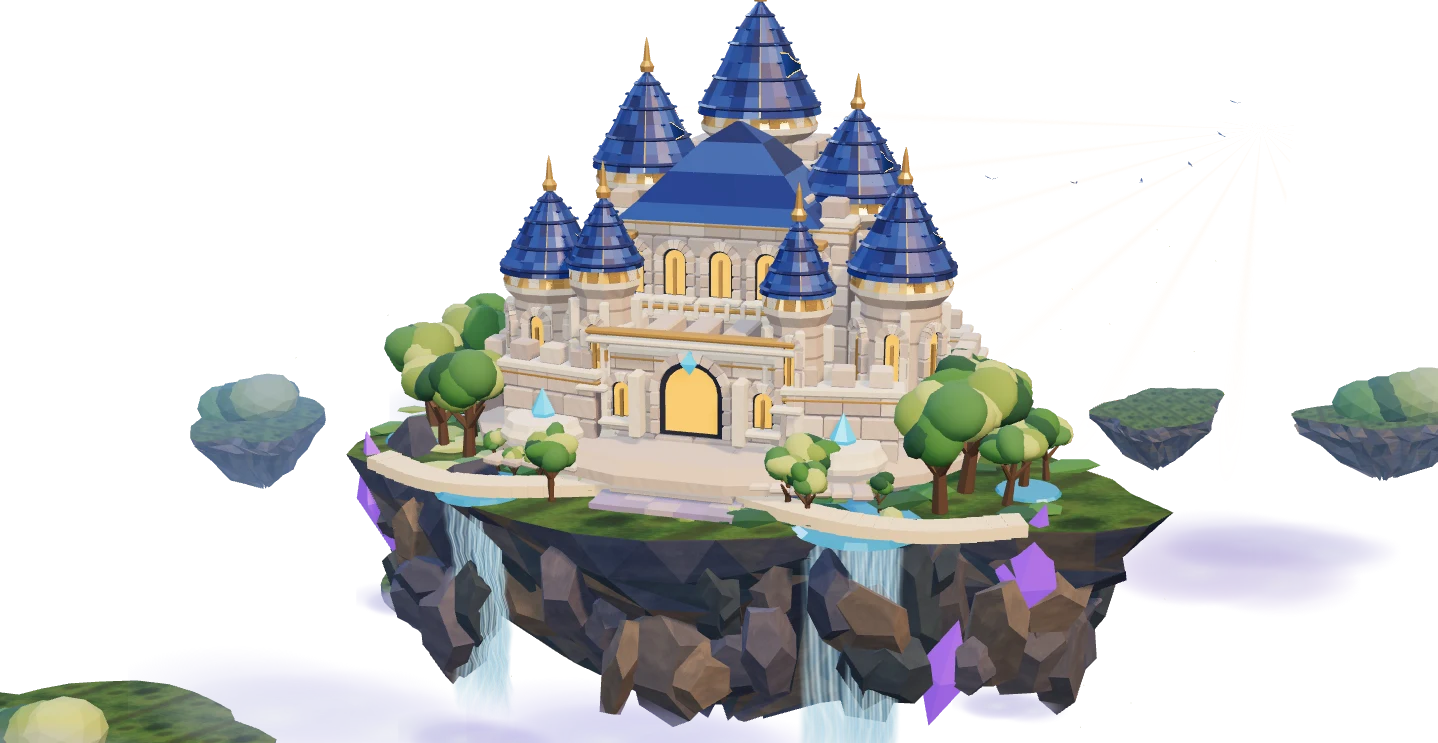
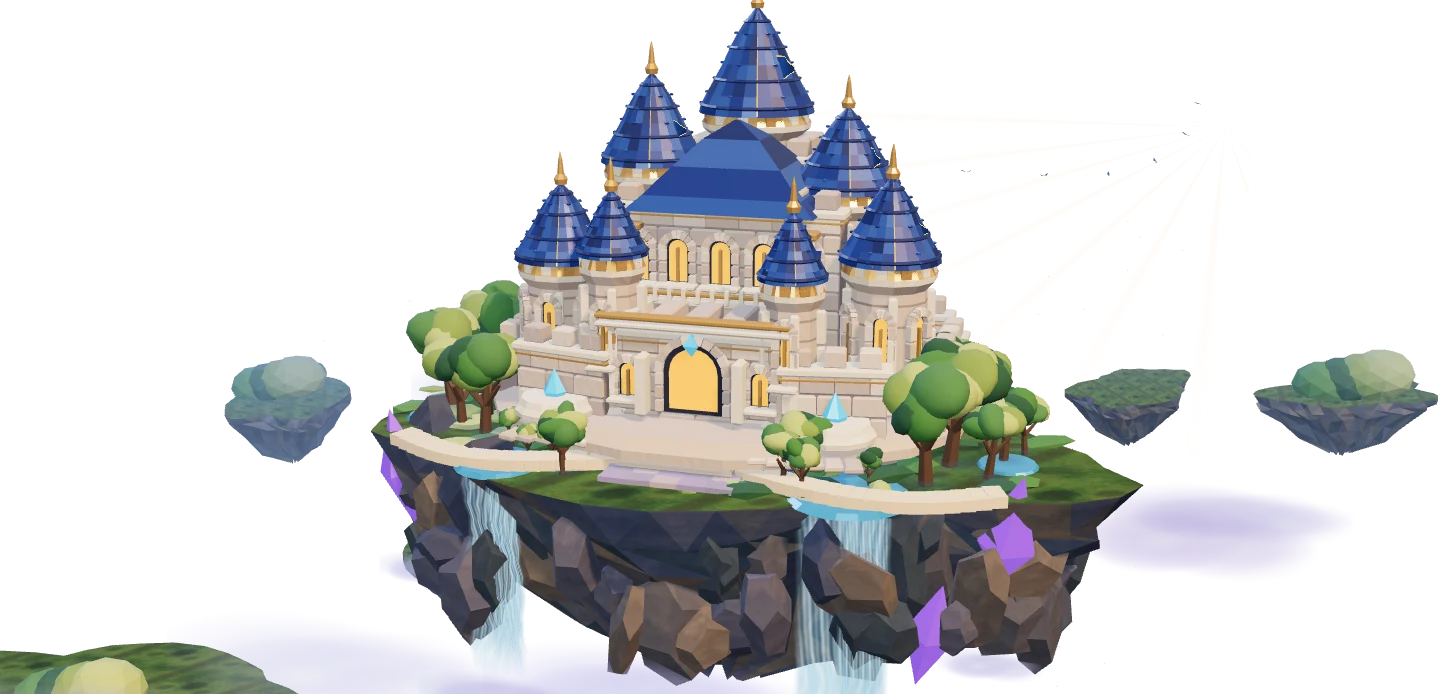
Polish perspective, cloud volumes, narrow screens and game feedback

Changed region(s): [[0.1224, 0.0, 1.0, 1.0], [0.0, 0.9078, 0.2142, 1.0], [0.8567, 0.696, 0.9485, 0.7565]]

diff --git a/src/lib/royale/three/kingdom-scene.ts b/src/lib/royale/three/kingdom-scene.ts
@@ -1,6 +1,7 @@
 import * as T from 'three';
 import { disposeKingdomScene, loadKingdomAsset } from './kingdom-resources';
 import type { GraphicsQuality } from '../quality';
+import { makeCloudVolume } from './kingdom-cloud';
 import { RoomEnvironment } from 'three/addons/environments/RoomEnvironment.js';
 
 const waterVertex = `
@@ -33,7 +34,7 @@ export function mountKingdomScene(canvas:HTMLCanvasElement,quality:GraphicsQuali
  const reduce=matchMedia('(prefers-reduced-motion: reduce)').matches;
  const heavy=quality==='high'||(quality==='auto'&&innerWidth>=950&&(navigator.hardwareConcurrency||8)>=8);
  const economy=quality==='low'||(quality==='auto'&&(matchMedia('(max-width: 700px)').matches||(navigator.hardwareConcurrency||8)<6));
- const renderer=new T.WebGLRenderer({canvas,alpha:true,antialias:!economy,powerPreference:economy?'low-power':'default'});
+ const renderer=new T.WebGLRenderer({canvas,alpha:true,antialias:!economy||(innerWidth<=430&&(navigator.hardwareConcurrency||4)>=4),powerPreference:economy?'low-power':'default'});
  renderer.toneMapping=T.ACESFilmicToneMapping;renderer.toneMappingExposure=1.06;
  const scene=new T.Scene(), island=new T.Group();
  renderer.shadowMap.enabled=!economy;renderer.shadowMap.type=T.PCFShadowMap;
@@ -210,6 +211,22 @@ export function mountKingdomScene(canvas:HTMLCanvasElement,quality:GraphicsQuali
   gradient.addColorStop(0,'rgba(255,242,255,.7)');gradient.addColorStop(.34,'rgba(215,197,255,.42)');gradient.addColorStop(1,'rgba(195,168,255,0)');
   ctx.fillStyle=gradient;ctx.fillRect(x-r,y-r,r*2,r*2);
  }
+ const shadowCanvas=document.createElement('canvas');shadowCanvas.width=shadowCanvas.height=64;
+ const ink=shadowCanvas.getContext('2d')!;
+ const groundGradient=ink.createRadialGradient(32,32,4,32,32,31);
+ groundGradient.addColorStop(0,'rgba(14,30,51,.64)');groundGradient.addColorStop(1,'rgba(14,30,51,0)');
+ ink.fillStyle=groundGradient;ink.fillRect(0,0,64,64);
+ const shade=new T.InstancedMesh(new T.PlaneGeometry(1,1),new T.MeshBasicMaterial({
+  map:new T.CanvasTexture(shadowCanvas),transparent:true,depthWrite:false,
+  opacity:economy?.66:.50,polygonOffset:true,polygonOffsetFactor:-1,
+ }),treeCount+1);
+ for(let i=0;i<treeCount;i++){
+  trunks.getMatrixAt(i,helper.matrix);helper.matrix.decompose(helper.position,helper.quaternion,helper.scale);
+  helper.position.setY(.253);helper.rotation.set(-Math.PI/2,0,0);
+  helper.scale.setScalar(Math.max(.55,helper.scale.y*.87));helper.updateMatrix();shade.setMatrixAt(i,helper.matrix);
+ }
+ helper.position.set(0,.253,-.15);helper.scale.set(6.38,4.8,1);helper.updateMatrix();shade.setMatrixAt(treeCount,helper.matrix);
+ island.add(shade);
  const clouds=Array.from({length:economy?6:10},(_,i)=>{
   const cloud=new T.Sprite(new T.SpriteMaterial({map:texture,color:i<3?0xc5dcfb:0xe0ccec,transparent:true,depthWrite:false,opacity:i<2?.39:.53}));
   const x=(i%5-2)*3.3+(rand()-.5)*1.9;
@@ -217,6 +234,13 @@ export function mountKingdomScene(canvas:HTMLCanvasElement,quality:GraphicsQuali
   cloud.scale.set(3.1+rand()*2.0,1.36+rand()*.61,1);scene.add(cloud);
   return {cloud,x,offset:rand()*6.28};
  });
+ const cloudVolumes=heavy?[[-5.8,-2.8,5.2],[5.6,-3.4,4.9],[-3.7,-2.3,-6.4]].map(([x,y,z])=>{
+  const cloud=makeCloudVolume();
+  cloud.position.set(x,y,z);
+  cloud.scale.set(2.85,.84,1.25);
+  scene.add(cloud);
+  return {cloud,x};
+ }):[];
  const rays=new T.Mesh(new T.PlaneGeometry(15,9),new T.ShaderMaterial({
   transparent:true,depthWrite:false,uniforms:{uTime:{value:0}},
   vertexShader:`varying vec2 vUv;void main(){vUv=uv;gl_Position=projectionMatrix*modelViewMatrix*vec4(position,1.);}`,
@@ -258,7 +282,7 @@ export function mountKingdomScene(canvas:HTMLCanvasElement,quality:GraphicsQuali
  birds.geometry.setAttribute('position',new T.Float32BufferAttribute([-.18,.045,0,0,0,.04,-.078,.012,-.02,0,0,.04,.18,.045,0,.078,.012,-.02],3));
  birds.frustumCulled=false;scene.add(birds);
  const abort=new AbortController();
- const aiming=new T.Vector3(),cameraPos=new T.Vector3();
+ const aiming=new T.Vector3(),cameraPos=new T.Vector3(),volumeEye=new T.Vector3();
  let frame=0,last=0,visible=true,ready=false,pointer=0,smoothed=0,painted=false,lastShadow=-1,firstFrame:number|undefined,frames=0;
  const resize=new ResizeObserver(()=>{
   const w=canvas.clientWidth,h=canvas.clientHeight;if(!w||!h)return;
@@ -271,10 +295,11 @@ export function mountKingdomScene(canvas:HTMLCanvasElement,quality:GraphicsQuali
  resize.observe(canvas);
  const observer=new IntersectionObserver(([entry])=>{visible=entry.isIntersecting;last=0;});
  observer.observe(canvas);
+ const stage=canvas.parentElement;
  const mouse=(event:PointerEvent)=>{
   if(!reduce&&event.pointerType==='mouse'){const rect=canvas.getBoundingClientRect();pointer=(event.clientX-rect.left)/rect.width-.5;}
  };
- canvas.addEventListener('pointermove',mouse);
+ stage?.addEventListener('pointermove',mouse);
  const contextLost=(event:Event)=>{event.preventDefault();onError();};
  canvas.addEventListener('webglcontextlost',contextLost);
  const render=(time:number)=>{
@@ -292,7 +317,7 @@ export function mountKingdomScene(canvas:HTMLCanvasElement,quality:GraphicsQuali
   cameraPos.set(distance*Math.sin(angle),7.1+.13*Math.sin(elapsed*.42),distance*Math.cos(angle));
   if(!painted)camera.position.copy(cameraPos);
   else camera.position.lerp(cameraPos,.085);
-  aiming.set(0,(camera.aspect<.84?1.21:1.46)+entering*.06,0);camera.lookAt(aiming);
+  aiming.set(0,(camera.aspect<.84?1.12:1.56)+entering*.06,0);camera.lookAt(aiming);
   for(let i=0;i<birds.count;i++){
    const t=elapsed*.34+i*.42;
    helper.position.set(8.9*Math.sin(t*.45)-2,3.0+i*.18+.41*Math.sin(t*2),-5.1-i*.91);
@@ -303,6 +328,10 @@ export function mountKingdomScene(canvas:HTMLCanvasElement,quality:GraphicsQuali
   flagMeshes.forEach(flag=>{flag.material.uniforms.uTime.value=elapsed;});
   sparkles.position.y=.14*Math.sin(elapsed*.3);
   clouds.forEach(({cloud,x,offset})=>{cloud.position.x=x+.95*Math.sin(elapsed*.115+offset);});
+  cloudVolumes.forEach(({cloud,x},index)=>{
+   cloud.position.x=x+Math.sin(elapsed*.105+index)*.5;
+   cloud.material.uniforms.uEye.value.copy(cloud.worldToLocal(volumeEye.copy(camera.position)));
+  });
   rays.material.uniforms.uTime.value=elapsed;
   sun.intensity=3.35+.077*Math.sin(elapsed*.36);
   const shadowStep=Math.floor(elapsed*9);
@@ -311,6 +340,7 @@ export function mountKingdomScene(canvas:HTMLCanvasElement,quality:GraphicsQuali
   frames++;
   if(frames%20===1){
    canvas.dataset.sceneFrames=String(frames);
+   canvas.dataset.sceneTime=String(time);
    canvas.dataset.sceneDraws=String(renderer.info.render.calls);
    canvas.dataset.sceneTriangles=String(renderer.info.render.triangles);
   }
@@ -325,7 +355,7 @@ export function mountKingdomScene(canvas:HTMLCanvasElement,quality:GraphicsQuali
  }).catch(()=>{if(!abort.signal.aborted)onError();});
  frame=requestAnimationFrame(render);
  return ()=>{abort.abort();cancelAnimationFrame(frame);resize.disconnect();observer.disconnect();
-  canvas.removeEventListener('pointermove',mouse);canvas.removeEventListener('webglcontextlost',contextLost);
+  stage?.removeEventListener('pointermove',mouse);canvas.removeEventListener('webglcontextlost',contextLost);
   disposeKingdomScene(scene);reflected?.dispose();spots.dispose();sparkles.material.dispose();clouds.forEach(({cloud})=>cloud.material.dispose());haze.material.dispose();texture.dispose();waterPaint.dispose();cloth.dispose();if(economy){rays.geometry.dispose();rays.material.dispose();}sun.shadow.dispose();renderer.renderLists.dispose();renderer.dispose();
  };
 }

diff --git a/src/components/royale/RoyaleApp.tsx b/src/components/royale/RoyaleApp.tsx
@@ -11,6 +11,7 @@ import { KingdomShell, KingdomHome, KingdomBattleSetup, type KingdomTab } from '
 import { KingdomDialog } from './KingdomDialog';
 import { KingdomProgress } from './KingdomProgress';
 import { RoyaleIcon } from './RoyaleIcon';
+import { RoyaleSound } from '@/lib/royale/sound';
 import s from './Royale.module.css';
 import k from './Kingdom.module.css';
 
@@ -22,6 +23,19 @@ function AccountRoyale({user,practice,onPractice,onCloud}:{user:User|null;practi
  const [catalog,setCatalog]=useState<Catalog|null>(null),[profile,setProfile]=useState<RoyaleProfile|null>(null),[settings,setSettings]=useState<RoyaleSettings>(defaultSettings),[error,setError]=useState(''),[busy,setBusy]=useState(false),[tab,setTab]=useState<KingdomTab>('home'),[settingsOpen,setSettingsOpen]=useState(false),[editDeck,setEditDeck]=useState(false),[difficulty,setDifficulty]=useState<Difficulty>('novice'),[arena,setArena]=useState('academy'),[run,setRun]=useState<{match:MatchDescriptor;draft:SavedRun|null}|null>(null),[saved,setSaved]=useState<SavedRun|null>(null),[active,setActive]=useState<MatchDescriptor|null>(null),[notice,setNotice]=useState(''),[deck,setDeck]=useState<CardId[]>([...starterDeck]);
  const {preferences,update:updatePreferences,ready:preferencesReady}=useRoyalePreferences();
  const [checkedAt,setCheckedAt]=useState(()=>Date.now());useEffect(()=>{const timer=setInterval(()=>setCheckedAt(Date.now()),30000);return()=>clearInterval(timer);},[]);
+ const menuAudio=useRef<RoyaleSound|null>(null);
+ if(!menuAudio.current)menuAudio.current=new RoyaleSound();
+ useEffect(()=>{
+  const audio=menuAudio.current!;
+  return()=>audio.dispose();
+ },[]);
+ useEffect(()=>{
+  const audio=menuAudio.current!;
+  audio.muted=!preferences.sound;
+  audio.volume=preferences.volume;
+  audio.music=preferences.music;
+  if(run||!preferences.sound||!preferences.music)audio.stopMusic();
+ },[preferences,run]);
  const operations=useRef(new Map<string,string>());
  const accountKey=practice?`practice:${user?.uid||'guest'}`:user!.uid,storageKey=`royale-run:${accountKey}`,profileKey=`royale-profile:${accountKey}`;
  useEffect(()=>{const controller=new AbortController();let alive=true;
@@ -41,7 +55,12 @@ function AccountRoyale({user,practice,onPractice,onCloud}:{user:User|null;practi
  if(run&&profile&&catalog)return<Suspense fallback={<main className={k.arenaLoading} role="status"><RoyaleIcon name="swords"/><span>Открываем 3D-арену…</span></main>}><RoyaleGame preferences={preferences} updatePreferences={updatePreferences} key={run.match.id} user={user} match={run.match} draft={run.draft} catalog={catalog.questions} settings={settings} profile={profile} storageKey={storageKey} profileKey={profileKey} onProfile={setProfile} onReturn={returnMenu} onRematch={()=>{setRun(null);void start();}} onDeck={()=>{returnMenu();setEditDeck(true);setTab('collection');}}/></Suspense>;
  const activeValid=active&&(!active.expiresAt||active.expiresAt>checkedAt)&&(!active.version||active.version===balance.version)&&(!active.bankVersion||active.bankVersion===catalog?.version);const canResume=saved&&((practice&&saved.match.practice&&saved.match.version===balance.version)||(!practice&&activeValid&&active?.id===saved.match.id));
 
- function navigate(next:KingdomTab){setEditDeck(false);setTab(next);}
+ function navigate(next:KingdomTab){
+  const audio=menuAudio.current!;
+  void audio.interfaceCue('menu');
+  if(preferences.sound&&preferences.music>0)audio.startMusic();
+  setEditDeck(false);setTab(next);
+ }
  function resume(){
   if(!saved)return;
   try{

diff --git a/src/lib/royale/sound.ts b/src/lib/royale/sound.ts
@@ -1,8 +1,35 @@
 export class RoyaleSound{
  private context:AudioContext|null=null;private timer:ReturnType<typeof setInterval>|null=null;private last=0;muted=true;volume=.25;music=0;
  unlock(){if(this.muted)return;try{this.context??=new AudioContext();void this.context.resume().catch(()=>undefined);}catch{/* The game works without Web Audio. */}}
- play(kind:'hit'|'spawn'|'collapse'|'fire'|'correct'|'wrong'|'win'|'loss'|'select'|'start'){
-  if(this.muted||!this.context||this.context.state!=='running')return;const now=this.context.currentTime;if(now-this.last<.035&&['hit','spawn'].includes(kind))return;this.last=now;const oscillator=this.context.createOscillator(),gain=this.context.createGain();const frequency={hit:170,spawn:390,collapse:85,fire:120,correct:660,wrong:150,win:780,loss:180,select:334,start:506}[kind];oscillator.type=['fire','collapse'].includes(kind)?'sawtooth':'sine';oscillator.frequency.setValueAtTime(frequency,now);oscillator.frequency.exponentialRampToValueAtTime(kind==='correct'||kind==='win'||kind==='start'?frequency*1.5:frequency*.5,now+.14);gain.gain.setValueAtTime(this.volume*.17,now);gain.gain.exponentialRampToValueAtTime(.001,now+.19);oscillator.connect(gain);gain.connect(this.context.destination);oscillator.start(now);oscillator.stop(now+.2);
+ async interfaceCue(kind:'menu'|'select'){
+  if(this.muted)return;
+  this.unlock();
+  await this.context?.resume().catch(()=>undefined);
+  this.play(kind);
+ }
+ play(kind:'hit'|'spawn'|'collapse'|'fire'|'correct'|'wrong'|'win'|'loss'|'select'|'start'|'menu'){
+  const ctx=this.context;
+  if(this.muted||!ctx||ctx.state!=='running'||this.volume<=0)return;
+  const now=ctx.currentTime;
+  if(now-this.last<.035&&['hit','spawn'].includes(kind))return;
+  this.last=now;
+  const chords:Partial<Record<typeof kind,number[]>>={
+   correct:[587.33,739.99,880],win:[392,523.25,659.25,783.99],start:[261.63,392,523.25],menu:[369.99,554.37],
+  };
+  const frequencies=chords[kind]??[{hit:170,spawn:390,collapse:85,fire:120,wrong:150,loss:180,select:334}[kind as 'hit'|'spawn'|'collapse'|'fire'|'wrong'|'loss'|'select']];
+  frequencies.forEach((frequency,index)=>{
+   const start=now+index*.061;
+   const length=kind==='win'?.37:kind==='correct'?.24:.16;
+   const oscillator=ctx.createOscillator(),gain=ctx.createGain();
+   oscillator.type=kind==='collapse'||kind==='fire'?'triangle':'sine';
+   oscillator.frequency.setValueAtTime(frequency,start);
+   if(!chords[kind])oscillator.frequency.exponentialRampToValueAtTime(frequency*.64,start+length*.70);
+   gain.gain.setValueAtTime(.0001,start);
+   gain.gain.exponentialRampToValueAtTime(Math.max(.0002,this.volume*(index===0?.15:.105)),start+.012);
+   gain.gain.exponentialRampToValueAtTime(.0001,start+length);
+   oscillator.connect(gain);gain.connect(ctx.destination);
+   oscillator.start(start);oscillator.stop(start+length+.012);
+  });
  }
  startMusic(){if(this.timer||this.muted||this.music<=0)return;let note=0;const melody=[220,277.18,329.63,277.18,246.94,329.63,369.99,329.63];this.timer=setInterval(()=>{if(!this.context||this.muted||this.music<=0)return;const t=this.context.currentTime,o=this.context.createOscillator(),g=this.context.createGain();o.type='sine';o.frequency.value=melody[note++%melody.length];g.gain.setValueAtTime(this.volume*this.music*.06,t);g.gain.exponentialRampToValueAtTime(.001,t+.7);o.connect(g);g.connect(this.context.destination);o.start(t);o.stop(t+.75);},650);}
  stopMusic(){if(this.timer)clearInterval(this.timer);this.timer=null;}

diff --git a/src/lib/royale/three/renderer.ts b/src/lib/royale/three/renderer.ts
@@ -26,14 +26,14 @@ export function create3DView(canvas:HTMLCanvasElement,theme:string,onFailure:(me
  try{renderer=new T.WebGLRenderer({canvas,antialias:initialQuality!=='low',alpha:true,powerPreference:initialQuality==='low'?'low-power':'default'});}catch{throw Error('На этом устройстве недоступен WebGL 2. Попробуйте облегчённую 3D-графику.');}
  const startLow=initialQuality==='low';
  const scene=new T.Scene();
- scene.fog=new T.Fog(0x7e91ba,46,106);
+ scene.fog=new T.Fog(0x8399bb,43,108);
  renderer.outputColorSpace=T.SRGBColorSpace;renderer.toneMapping=T.ACESFilmicToneMapping;renderer.toneMappingExposure=1.04;
  renderer.shadowMap.type=T.PCFShadowMap;
  renderer.shadowMap.autoUpdate=false;
  renderer.info.autoReset=false;
  const camera=createBattleCamera(),world=createArena(theme),workshop=new ModelWorkshop();scene.add(world.root);
- scene.add(new T.HemisphereLight(0xb3c9ff,0x6b597b,1.33));
- const sun=new T.DirectionalLight(0xffd5a2,3.1);sun.position.set(-14,29,9);sun.shadow.camera.left=-25;sun.shadow.camera.right=25;sun.shadow.camera.top=28;sun.shadow.camera.bottom=-28;sun.shadow.camera.near=1;sun.shadow.camera.far=80;sun.shadow.bias=-.001;sun.shadow.normalBias=.045;sun.shadow.radius=2.7;scene.add(sun);scene.add(sun.target);
+ scene.add(new T.HemisphereLight(0xb7cbff,0x6b627a,1.39));
+ const sun=new T.DirectionalLight(0xffd9ae,3.04);sun.position.set(-14,29,9);sun.shadow.camera.left=-25;sun.shadow.camera.right=25;sun.shadow.camera.top=28;sun.shadow.camera.bottom=-28;sun.shadow.camera.near=1;sun.shadow.camera.far=80;sun.shadow.bias=-.001;sun.shadow.normalBias=.045;sun.shadow.radius=2.7;scene.add(sun);scene.add(sun.target);
  const motes=createSkyMotes(scene);
  let bloom:ReturnType<typeof createSkyBloom>|undefined;
  const geometry:T.BufferGeometry[]=[],materials:T.Material[]=[];

diff --git a/src/lib/royale/three/kingdom-cloud.ts b/src/lib/royale/three/kingdom-cloud.ts
@@ -1,0 +1,54 @@
+import * as T from 'three';
+
+const vertexShader = `
+ varying vec3 vPoint;
+ uniform vec3 uEye;
+ void main() {
+  vPoint=position;
+  gl_Position=projectionMatrix*modelViewMatrix*vec4(position,1.);
+ }
+`;
+
+const fragmentShader = `
+ varying vec3 vPoint;
+ uniform vec3 uEye;
+
+ float puff(vec3 p, vec3 center, vec3 stretch) {
+  return max(0.,1.-length((p-center)*stretch));
+ }
+ float density(vec3 p) {
+  return max(
+   puff(p,vec3(-.25,0.,0.),vec3(1.50,1.44,1.28)),
+   max(puff(p,vec3(.28,.12,.08),vec3(1.47,1.30,1.36)),
+       puff(p,vec3(.09,-.22,-.15),vec3(1.32,1.88,1.57)))
+  );
+ }
+ void main() {
+  vec3 direction=normalize(vPoint-uEye);
+  vec3 first=(-vec3(1.)-uEye)/direction;
+  vec3 last=(vec3(1.)-uEye)/direction;
+  vec3 ends=min(first,last);
+  float near=max(max(ends.x,ends.y),ends.z);
+  float stepLength=(distance(vPoint,uEye)-max(0.,near))/10.;
+  vec3 color=vec3(0.);
+  float alpha=0.;
+  for(int i=0;i<10;i++){
+   vec3 p=uEye+direction*(near+(float(i)+.55)*stepLength);
+   float d=density(p);
+   float ripple=.89+.11*sin(p.x*28.+sin(p.z*17.))*sin(p.y*28.+p.z*12.);
+   float a=(1.-alpha)*d*ripple*stepLength*.54;
+   vec3 ink=mix(vec3(.24,.36,.68),vec3(.98,.80,.79),clamp(.46+p.y*.67+p.x*.16,0.,1.));
+   color+=ink*a;
+   alpha+=a;
+  }
+  gl_FragColor=vec4(color/max(alpha,.001),alpha);
+  #include <colorspace_fragment>
+ }
+`;
+
+export function makeCloudVolume() {
+ return new T.Mesh(new T.BoxGeometry(2,2,2), new T.ShaderMaterial({
+  vertexShader,fragmentShader,uniforms:{uEye:{value:new T.Vector3()}},
+  side:T.BackSide,transparent:true,depthWrite:false,
+ }));
+}

diff --git a/src/components/royale/Kingdom.module.css b/src/components/royale/Kingdom.module.css
@@ -320,7 +320,7 @@
 .courtCrown svg{height:27px;filter:drop-shadow(0 2px 1px #31233b)}
 .scene{inset:9% 0 0;transition:filter .38s var(--ease-reveal)}
 .court[data-launching=true] .scene{filter:brightness(1.09) saturate(1.1)}
-.scenePoster{background-image:url('/royale/cinematic/citadel-poster.webp');background-size:cover}
+.scenePoster{background-image:url('/royale/cinematic/citadel-poster.webp');background-size:contain}
 .sceneRecovery{z-index:1;position:absolute;left:50%;bottom:21%;transform:translateX(-50%);width:max-content;max-width:94%;display:flex;gap:9px;align-items:center;padding:5px 7px 5px 10px;border:1px solid #d7ac646d;border-radius:8px;background:#0d1735e8}
 .sceneRecovery p{margin:0;font-size:12px}
 .shell .sceneRecovery button{min-height:35px;font-size:12px}
@@ -482,4 +482,14 @@
  .resultStage .resultEmblem{height:65px}
  .resultStage .resultEmblem svg{height:60px}
  .resultStage .resultHero h1{font-size:clamp(35px,7vw,72px)}
+}
+
+@media(min-width:841px){.scene{inset:15% 0 0}}
+
+@media(prefers-reduced-motion:reduce){.arenaLoading{animation:none}}
+@media(max-width:430px) and (orientation:portrait){
+ .leagueList{grid-template-columns:repeat(2,minmax(0,1fr))}
+ .mapLabel b{font-size:13px;text-wrap:balance;overflow-wrap:anywhere}
+ .courtLeague,.courtLearning{min-height:68px}
+ .courtLearning .learningIcon{width:29px;height:29px}
 }

diff --git a/src/components/royale/KingdomMenu.tsx b/src/components/royale/KingdomMenu.tsx
@@ -69,7 +69,7 @@ export function KingdomHome({profile,topics,preferences,ready,action,showSetting
    <progress aria-label="Прогресс лиги" max={100} value={percent}/></div></aside>
   <aside className={k.courtLearning}><div className={k.learningIcon}><KingdomMark name="atom"/></div><div><small>Физика в бою</small>
    <b>{percentCorrect===null?'Первые задачи':percentCorrect+'% точность'}</b>
-   <span>{recommendation?'Повторить · '+recommendation.topic:profile.attempts?`${profile.correct} верных ответов`:'Заработайте энергию за ответы'}</span></div>
+   <span>{recommendation?'Повторить · '+recommendation.topic:profile.attempts?`${profile.correct} верных ответов`:'Энергия за верные ответы'}</span></div>
   </aside>
   <div className={k.courtActions}>{action}<button type="button" className={k.heroLink} onClick={showSettings}>Выбрать арену и сложность <span aria-hidden="true">↗</span></button></div>
  </section>;

diff --git a/src/components/royale/RoyaleBattle.module.css b/src/components/royale/RoyaleBattle.module.css
@@ -908,3 +908,16 @@
   .lesson .answerActions{grid-template-columns:minmax(0,1fr) minmax(0,1.25fr)}
   .lesson .answerField input{font-size:16px}
 }
+
+/* Keep the original exercise paper calm against the arena. */
+.lesson .paper{background:#fcf9f2;box-shadow:inset 0 0 0 1px #dacfc8,0 3px 11px #070a1b30}
+.energy[data-earned="true"] .energySegments i[data-filled="true"]::after{
+  animation:charged-facet .66s var(--ease) both;
+}
+@keyframes charged-facet{
+  0%,100%{filter:brightness(1)}
+  36%{filter:brightness(1.42) saturate(1.18)}
+}
+@media(prefers-reduced-motion:reduce){
+ .energy[data-earned="true"] .energySegments i[data-filled="true"]::after{animation:none}
+}

diff --git a/CINEMATIC_PROGRESS.md b/CINEMATIC_PROGRESS.md
@@ -24,3 +24,7 @@
 | Кубки в итогах выглядели меньше других показателей | Исправлен размер анимированного числа |
 | Корона победы выглядела как иконка из меню | Добавлены отдельный герб, металл и лавровый силуэт |
 | Кадр при уменьшенном движении ещё отсутствовал | Сохранён настоящий кадр браузерной сцены |
+
+## C — Final Quality Pass
+
+Добавлены локальные контактные тени для деревьев, объёмные облака High, азурный дневной свет и синтезированные сигналы для меню, ответа и победы. Тестовая сцена умеет измерять действительно отрисованные кадры. Приоритет проверки — крайние мобильные размеры, повторные переходы между сценами и исходный цикл задания.
